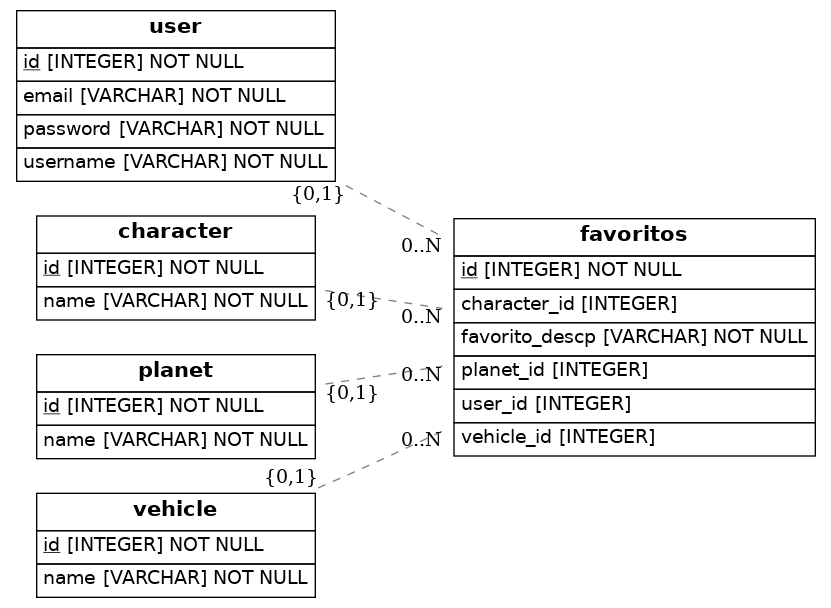
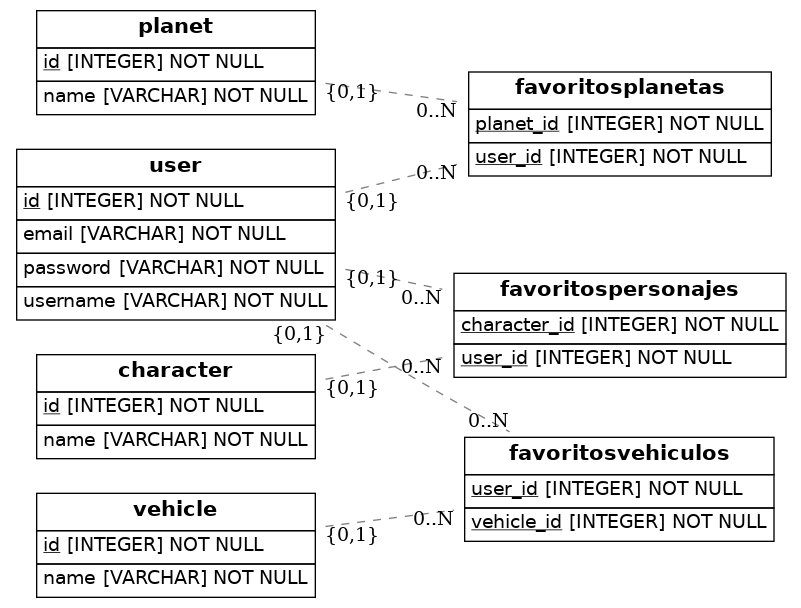
ajuste favoritos

diff --git a/src/models.py b/src/models.py
@@ -1,12 +1,37 @@
 import os
 import sys
-from sqlalchemy import Column, ForeignKey, Integer, String
+from sqlalchemy import Column, ForeignKey, Integer, String,Table
 from sqlalchemy.ext.declarative import declarative_base
 from sqlalchemy.orm import relationship
 from sqlalchemy import create_engine
 from eralchemy2 import render_er
+#from sqlalchemy import Column, ForeignKey, Integer, Table
+#from sqlalchemy.orm import declarative_base, relationship
 
 Base = declarative_base()
+
+
+favoritosplanetas = Table(
+    "favoritosplanetas",
+    Base.metadata,
+    Column("planet_id", ForeignKey("planet.id"), primary_key=True),
+    Column("user_id", ForeignKey("user.id"), primary_key=True)
+   )
+
+favoritospersonajes = Table(
+    "favoritospersonajes",
+    Base.metadata,
+    Column("character_id", ForeignKey("character.id"), primary_key=True),
+    Column("user_id", ForeignKey("user.id"), primary_key=True)
+    )
+
+favoritosvehiculos = Table(
+    "favoritosvehiculos",
+    Base.metadata,
+    Column("vehicle_id", ForeignKey("vehicle.id"), primary_key=True),
+    Column("user_id", ForeignKey("user.id"), primary_key=True)
+    )
+
 
 class User(Base):
     __tablename__ = 'user'
@@ -16,7 +41,10 @@ class User(Base):
     username = Column(String, nullable=False)
     password = Column(String, nullable= False)
     email = Column(String, nullable=False)
-    favoritos = relationship('Favoritos', back_populates='user')
+    character= relationship('Character', secondary=favoritospersonajes, uselist=True)
+    planet= relationship('Planet', secondary=favoritosplanetas, uselist=True)
+    vehicle= relationship('Vehicle', secondary=favoritosvehiculos, uselist=True)
+    #favoritos = relationship('Favoritos', back_populates='user')
 
 class Character(Base):
     __tablename__ = 'character'
@@ -24,31 +52,40 @@ class Character(Base):
     # Notice that each column is also a normal Python instance attribute.
     id = Column(Integer, primary_key=True)
     name = Column(String, nullable=False)
-    favoritos = relationship('Favoritos', back_populates='character')
+   # favoritospersonajes = relationship('favoritospersonajes', back_populates='character')
 
 class Planet(Base):
     __tablename__='planet'
     id= Column(Integer, primary_key=True)
     name= Column(String, nullable=False)
-    favoritos= relationship('Favoritos', back_populates='planet')
+  #  favoritosplanetas= relationship('favoritosplanetas', back_populates='planet')
 
 class Vehicle(Base):
     __tablename__='vehicle'
     id = Column(Integer, primary_key=True)
     name= Column(String, nullable=False)
-    favoritos= relationship('Favoritos', back_populates='vehicle')
+   # favoritosvehiculos= relationship('favoritosvehiculos', back_populates='vehicle')
 
-class Favoritos(Base):
-    __tablename__= 'favoritos'
-    id = Column(Integer, primary_key=True)
-    favorito_descp= Column(String, nullable=False)
-    user_id= Column(Integer,ForeignKey('user.id'))
-    character_id= Column(Integer,ForeignKey('character.id'))
-    planet_id= Column(Integer,ForeignKey('planet.id'))
-    vehicle_id= Column(Integer,ForeignKey('vehicle.id'))
-    user= relationship('User', back_populates='favoritos.id')
-    character= relationship('Character', back_populates='favoritos.id', uselist=False)
-    planet= relationship('Planet', back_populates='favoritos.id', uselist=False)
-    vehicle= relationship('Vehicle', back_populates='favoritos.id', uselist=False)
+
+
+#class Favoritosvehiculos(Base):
+#    __tablename__='favoritosvehiculos'
+#    vehicle_id= Column(Integer,ForeignKey('vehicle.id'))
+#    favorito_descp= Column(String, nullable=False)
+#
+#class Favoritos(Base):
+#    __tablename__= 'favoritos'
+#    id = Column(Integer, primary_key=True)
+#    favorito_descp= Column(String, nullable=False)
+#    user_id= Column(Integer,ForeignKey('user.id'))
+#    character_id= Column(Integer,ForeignKey('character.id'))
+#    planet_id= Column(Integer,ForeignKey('planet.id'))
+#    vehicle_id= Column(Integer,ForeignKey('vehicle.id'))
+#    user= relationship('User', back_populates='favoritos.id')
+#    character= relationship('Character', back_populates='favoritos.id', uselist=False)
+#    planet= relationship('Planet', back_populates='favoritos.id', uselist=False)
+#    vehicle= relationship('Vehicle', back_populates='favoritos.id', uselist=False)
+
+
 ### Draw from SQLAlchemy base
 render_er(Base, 'diagram.png')
